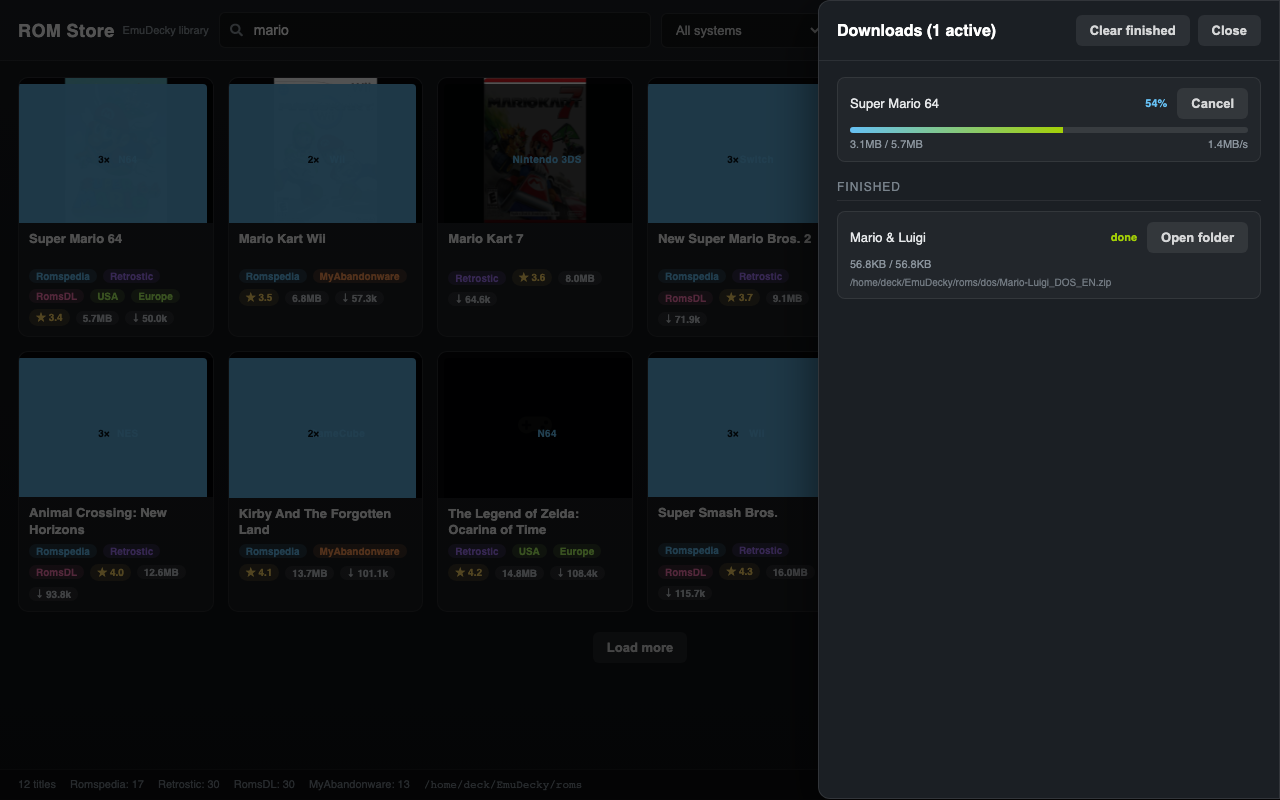
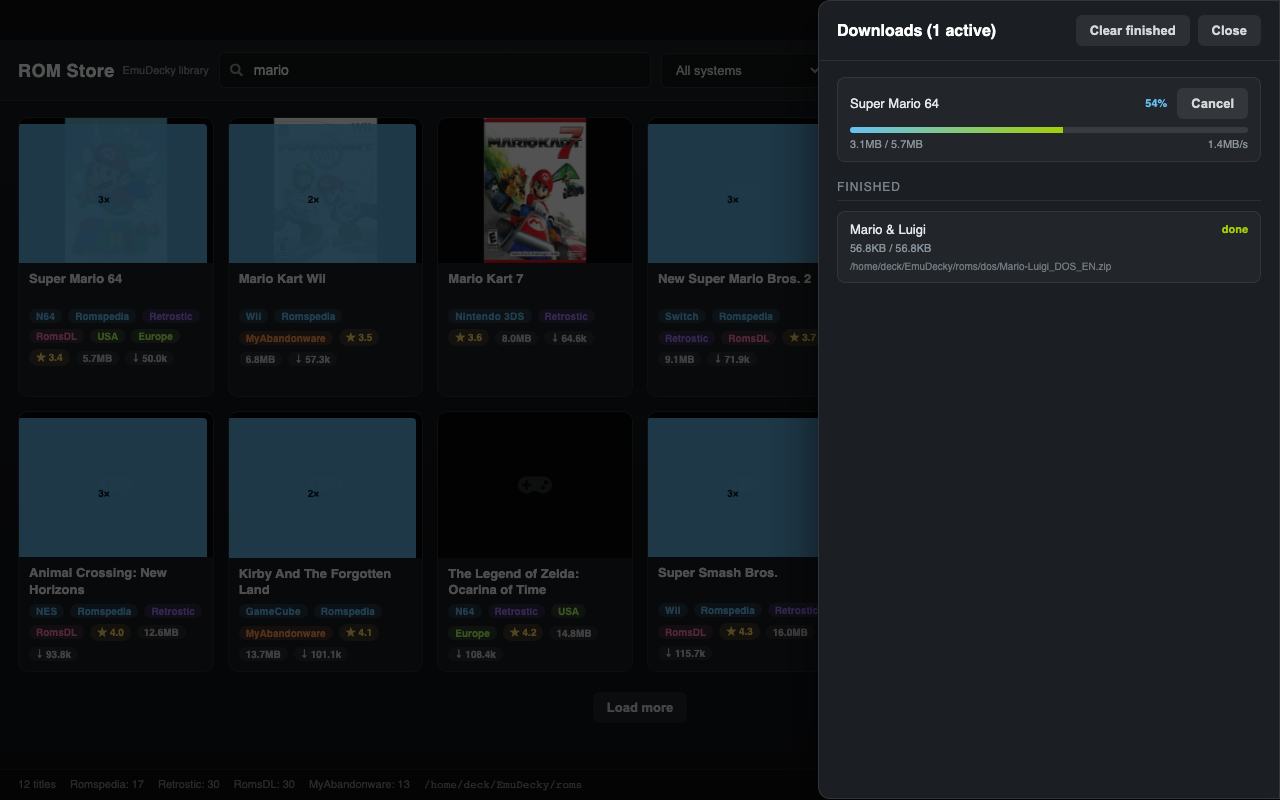
Fix Steam chrome offset, restore list scrolling, auto-retry link resolution, tidy card and download rows

diff --git a/src/styles.ts b/src/styles.ts
@@ -1,14 +1,13 @@
 /** Styles for the ROM Store, injected at runtime (Decky does not load CSS files). */
 export const CSS = `
 .rs-store {
-  /* Normal flow on purpose: the Steam route container has no intrinsic
-     height, so an absolutely positioned store collapses to nothing. */
-  position: relative;
-  --rs-chrome-top: 0px;
-  --rs-chrome-bottom: 0px;
-  padding-top: var(--rs-chrome-top);
-  padding-bottom: var(--rs-chrome-bottom);
-  min-height: calc(100vh - var(--rs-chrome-top) - var(--rs-chrome-bottom));
+  /* The Steam client draws a header bar over the top of the window, so the
+     store lives between the two chrome bars and scrolls on its own. */
+  position: fixed;
+  top: var(--rs-chrome-top, var(--basicui-header-height, 40px));
+  bottom: var(--rs-chrome-bottom, 0px);
+  left: 0;
+  right: 0;
   display: flex;
   flex-direction: column;
   background: linear-gradient(180deg, #16191d 0%, #0f1114 100%);
@@ -19,8 +18,7 @@ export const CSS = `
 }
 
 .rs-header {
-  position: sticky;
-  top: var(--rs-chrome-top, 0px);
+  flex: 0 0 auto;
   z-index: 5;
   display: flex;
   align-items: center;
@@ -88,7 +86,17 @@ export const CSS = `
   font-size: 11px; font-weight: 700; display: flex; align-items: center; justify-content: center;
 }
 
-.rs-main { flex: 1 1 auto; overflow: visible; padding: 16px 18px 28px; }
+.rs-main {
+  flex: 1 1 auto;
+  min-height: 0;
+  overflow-y: auto;
+  overscroll-behavior: contain;
+  padding: 16px 18px 28px;
+}
+.rs-main::-webkit-scrollbar { width: 10px; }
+.rs-main::-webkit-scrollbar-track { background: rgba(0, 0, 0, 0.25); }
+.rs-main::-webkit-scrollbar-thumb { background: rgba(255, 255, 255, 0.18); border-radius: 5px; }
+.rs-main::-webkit-scrollbar-thumb:hover { background: rgba(255, 255, 255, 0.3); }
 
 .rs-grid {
   display: grid;
@@ -128,10 +136,11 @@ export const CSS = `
   transform: translateZ(0); backface-visibility: hidden;
 }
 .rs-cover .rs-placeholder { font-size: 34px; color: rgba(255,255,255,0.14); display: flex; }
-.rs-cover .rs-system-tag {
-  position: absolute; left: 6px; top: 6px;
-  background: rgba(0,0,0,0.72); color: #66c0f4;
-  border-radius: 4px; padding: 2px 6px; font-size: 10px; font-weight: 700; letter-spacing: .3px;
+.rs-pill.system {
+  background: rgba(102, 192, 244, 0.16);
+  color: #66c0f4;
+  font-weight: 700;
+  letter-spacing: 0.3px;
 }
 .rs-cover .rs-dup {
   position: absolute; right: 6px; top: 6px;
@@ -139,7 +148,7 @@ export const CSS = `
   border-radius: 4px; padding: 2px 6px; font-size: 10px; font-weight: 700;
 }
 
-.rs-card-body { padding: 8px 10px 10px; display: flex; flex-direction: column; gap: 6px; }
+.rs-card-body { padding: 8px 10px 10px; display: flex; flex-direction: column; gap: 6px; min-width: 0; overflow: hidden; }
 .rs-title {
   font-size: 13px; font-weight: 600; color: #f2f3f3; line-height: 1.25;
   display: -webkit-box; -webkit-line-clamp: 2; -webkit-box-orient: vertical; overflow: hidden;
@@ -256,14 +265,21 @@ export const CSS = `
 
 .rs-dl-row {
   border: 1px solid rgba(255,255,255,0.08); border-radius: 8px; padding: 10px 12px; margin-bottom: 9px;
-  background: rgba(255,255,255,0.03);
+  background: rgba(255,255,255,0.03); max-width: 100%; overflow: hidden;
 }
-.rs-dl-top { display: flex; align-items: center; gap: 10px; }
-.rs-dl-name { flex: 1 1 auto; min-width: 0; font-size: 13px; color: #e6e8ea; white-space: nowrap; overflow: hidden; text-overflow: ellipsis; }
-.rs-dl-status { font-size: 11px; font-weight: 600; }
+.rs-dl-top { display: flex; align-items: center; gap: 10px; min-width: 0; }
+.rs-dl-name {
+  flex: 1 1 0; min-width: 0; font-size: 13px; color: #e6e8ea;
+  white-space: nowrap; overflow: hidden; text-overflow: ellipsis;
+}
+.rs-dl-status { font-size: 11px; font-weight: 600; flex: 0 0 auto; white-space: nowrap; }
 .rs-progress { height: 6px; border-radius: 3px; background: rgba(255,255,255,0.1); overflow: hidden; margin-top: 8px; }
 .rs-progress > div { height: 100%; background: linear-gradient(90deg, #66c0f4, #a4d007); transition: width 200ms linear; }
-.rs-dl-sub { display: flex; justify-content: space-between; font-size: 11px; color: #8b949d; margin-top: 5px; }
+.rs-dl-sub {
+  display: flex; justify-content: space-between; gap: 10px; font-size: 11px; color: #8b949d;
+  margin-top: 5px; min-width: 0;
+}
+.rs-dl-sub > span { min-width: 0; overflow: hidden; text-overflow: ellipsis; white-space: nowrap; }
 
 .rs-form-row { display: flex; align-items: center; gap: 12px; margin-bottom: 14px; }
 .rs-form-row label { flex: 0 0 190px; font-size: 13px; color: #c9ced3; }

diff --git a/src/components/useChromeInsets.ts b/src/components/useChromeInsets.ts
@@ -17,14 +17,21 @@ export function useChromeInsets(): RefObject<HTMLDivElement | null> {
       const rect = element.getBoundingClientRect();
       if (!rect.width || !rect.height) return;
 
+      // Steam exposes the height of its own header bar. If it is there we
+      // use it, otherwise we measure where our content becomes visible.
+      const steamHeader = getComputedStyle(document.documentElement)
+        .getPropertyValue("--basicui-header-height")
+        .trim();
+      const headerFromSteam = parseFloat(steamHeader);
+
       const x = Math.round(rect.left + Math.min(rect.width, 600) / 2);
       const limit = Math.min(window.innerHeight, Math.max(rect.bottom, rect.top + 1));
 
-      let top = 0;
+      let measuredTop = 0;
       for (let y = Math.max(0, Math.floor(rect.top)); y < limit; y += 2) {
         const hit = document.elementFromPoint(x, y);
         if (hit && element.contains(hit)) {
-          top = Math.max(0, y - rect.top);
+          measuredTop = Math.max(0, y - rect.top);
           break;
         }
       }
@@ -38,8 +45,10 @@ export function useChromeInsets(): RefObject<HTMLDivElement | null> {
         }
       }
 
-      element.style.setProperty("--rs-chrome-top", `${top}px`);
-      element.style.setProperty("--rs-chrome-bottom", `${bottom}px`);
+      const top = Number.isFinite(headerFromSteam) && headerFromSteam > 0 ? headerFromSteam : measuredTop;
+
+      if (top > 0) element.style.setProperty("--rs-chrome-top", `${top}px`);
+      if (bottom > 0) element.style.setProperty("--rs-chrome-bottom", `${bottom}px`);
     };
 
     // The Steam chrome animates in, so measure again shortly after mounting.

diff --git a/src/components/DownloadsDrawer.tsx b/src/components/DownloadsDrawer.tsx
@@ -1,5 +1,5 @@
 import { FC } from "react";
-import { cancelDownload, clearDownloads, DownloadJob, openFolder } from "../types";
+import { cancelDownload, clearDownloads, DownloadJob } from "../types";
 import { formatBytes, formatSpeed } from "./common";
 
 interface Props {
@@ -47,15 +47,6 @@ const DownloadsDrawer: FC<Props> = ({ jobs, onClose, onRefresh }) => {
               Cancel
             </button>
           ) : null}
-          {job.status === "done" && job.path ? (
-            <button
-              className="rs-btn ghost"
-              onClick={() => openFolder(job.destination)}
-              title={job.path}
-            >
-              Open folder
-            </button>
-          ) : null}
           {job.status === "error" ? <span className="rs-pill region">{job.error}</span> : null}
         </div>
         {(job.status === "downloading" || job.status === "extracting") && (
@@ -72,7 +63,7 @@ const DownloadsDrawer: FC<Props> = ({ jobs, onClose, onRefresh }) => {
         </div>
         {job.status === "done" && job.path ? (
           <div className="rs-dl-sub">
-            <span className="rs-path" style={{ fontSize: 10, opacity: 0.75 }}>
+            <span className="rs-path" style={{ fontSize: 10, opacity: 0.75 }} title={job.path}>
               {job.path}
             </span>
           </div>

diff --git a/src/components/SettingsModal.tsx b/src/components/SettingsModal.tsx
@@ -164,6 +164,22 @@ const SettingsModal: FC<Props> = ({ onClose, onSaved }) => {
             </div>
           ))}
 
+          <div className="rs-section-title">Steam overlay</div>
+          <div className="rs-form-row">
+            <label>Header offset</label>
+            <input
+              type="text"
+              value={String(settings.chrome_top_offset ?? 0)}
+              onChange={(event) => update({ chrome_top_offset: Number(event.target.value) || 0 })}
+            />
+          </div>
+          <div className="rs-form-row">
+            <div className="rs-hint">
+              Pixels to push the store below the Steam header bar. Leave at 0 to use the height Steam
+              reports automatically.
+            </div>
+          </div>
+
           <div className="rs-section-title">Downloads</div>
           <div className="rs-form-row">
             <label>Extract .zip archives</label>

diff --git a/src/components/RomCard.tsx b/src/components/RomCard.tsx
@@ -35,7 +35,6 @@ const RomCard: FC<Props> = memo(({ rom, onOpen }) => {
             <FaGamepad />
           </div>
         )}
-        <div className="rs-system-tag">{systemLabel(rom.system)}</div>
         {rom.variants > 1 && <div className="rs-dup">{rom.variants}×</div>}
       </div>
       <div className="rs-card-body">
@@ -43,6 +42,7 @@ const RomCard: FC<Props> = memo(({ rom, onOpen }) => {
           {rom.title}
         </div>
         <div className="rs-meta">
+          <span className="rs-pill system">{systemLabel(rom.system)}</span>
           {rom.sources.map((source) => (
             <span key={source} className={`rs-pill ${source}`}>
               {SOURCE_LABELS[source] ?? source}

diff --git a/src/components/Store.tsx b/src/components/Store.tsx
@@ -60,6 +60,12 @@ const Store: FC = () => {
   const requestId = useRef(0);
   const debounce = useRef<ReturnType<typeof setTimeout> | null>(null);
   const storeRef = useChromeInsets();
+  const manualOffset = settings?.chrome_top_offset ?? 0;
+
+  useEffect(() => {
+    if (!manualOffset || !storeRef.current) return;
+    storeRef.current.style.setProperty("--rs-chrome-top", `${manualOffset}px`);
+  }, [manualOffset, storeRef]);
 
   const refreshDownloads = useCallback(() => {
     getDownloads()

diff --git a/tools/preview/mock-api.ts b/tools/preview/mock-api.ts
@@ -172,6 +172,7 @@ const settings: Settings = {
   romsdl_base_url: "https://romsdl.com",
   myabandonware_base_url: "https://www.myabandonware.com",
   show_nsfw: false,
+  chrome_top_offset: 0,
 };
 
 const handlers: Record<string, (...args: any[]) => any> = {

diff --git a/src/types.ts b/src/types.ts
@@ -122,6 +122,7 @@ export interface Settings {
   romsdl_base_url: string;
   myabandonware_base_url: string;
   show_nsfw: boolean;
+  chrome_top_offset: number;
 }
 
 export interface StatusPayload {

diff --git a/backend/httpclient.py b/backend/httpclient.py
@@ -194,19 +194,31 @@ class HttpClient:
     # --------------------------------------------------------------- public API
     async def request(self, url: str, method: str = "GET", data: Optional[bytes] = None,
                       headers: Optional[Dict[str, str]] = None, allow_redirects: bool = True,
-                      max_bytes: int = 8 * 1024 * 1024) -> Response:
-        try:
-            resp = await asyncio.wait_for(
-                asyncio.to_thread(self._open, url, method, data, headers, allow_redirects),
-                timeout=max(self._timeout * 2, 45),
-            )
-        except asyncio.TimeoutError as exc:
-            raise HttpError(f"Request timed out: {url}", url=url) from exc
-        if resp.status >= 400:
-            raise HttpError(f"HTTP {resp.status} for {url}", resp.status, url)
-        if len(resp.body) > max_bytes:
-            resp.body = resp.body[:max_bytes]
-        return resp
+                      max_bytes: int = 8 * 1024 * 1024, retries: int = 2) -> Response:
+        """Fetch a URL, retrying transient failures."""
+        last_error: Optional[HttpError] = None
+        for attempt in range(retries + 1):
+            try:
+                resp = await asyncio.wait_for(
+                    asyncio.to_thread(self._open, url, method, data, headers, allow_redirects),
+                    timeout=max(self._timeout * 2, 45),
+                )
+            except asyncio.TimeoutError as exc:
+                last_error = HttpError(f"Request timed out: {url}", url=url)
+            except HttpError as exc:
+                last_error = exc
+            else:
+                if resp.status >= 500 and resp.status not in (501, 505):
+                    last_error = HttpError(f"HTTP {resp.status} for {url}", resp.status, url)
+                elif resp.status >= 400:
+                    raise HttpError(f"HTTP {resp.status} for {url}", resp.status, url)
+                else:
+                    if len(resp.body) > max_bytes:
+                        resp.body = resp.body[:max_bytes]
+                    return resp
+            if attempt < retries:
+                await asyncio.sleep(0.8 * (attempt + 1))
+        raise last_error or HttpError(f"Request failed: {url}", url=url)
 
     async def get_text(self, url: str, headers: Optional[Dict[str, str]] = None,
                        max_bytes: int = 8 * 1024 * 1024) -> str:

diff --git a/backend/service.py b/backend/service.py
@@ -234,13 +234,24 @@ class StoreService:
             source = sources.get(entry.source)
             if source is None:
                 return
-            try:
-                files = await source.resolve(entry)
-                entry.files = files
-                if files and not entry.size:
-                    entry.size = next((f.size for f in files if f.size), None)
-            except Exception as exc:
-                entry.extra["error"] = f"{type(exc).__name__}: {exc}"
+            # The sites occasionally drop a request, so give it a few tries
+            # before telling the user that the link could not be resolved.
+            last_error = ""
+            for attempt in range(3):
+                try:
+                    files = await source.resolve(entry)
+                    if files:
+                        entry.files = files
+                        if not entry.size:
+                            entry.size = next((f.size for f in files if f.size), None)
+                        entry.extra.pop("error", None)
+                        return
+                    last_error = "no download link found"
+                except Exception as exc:
+                    last_error = f"{type(exc).__name__}: {exc}"
+                if attempt < 2:
+                    await asyncio.sleep(0.7 * (attempt + 1))
+            entry.extra["error"] = last_error or "could not resolve the download link"
 
         await asyncio.gather(*(resolve(entry) for entry in rom.entries))
         return rom.to_dict()
@@ -268,10 +279,14 @@ class StoreService:
         headers: Dict[str, str] = {}
         url = rom_file.url
         if source is not None and hasattr(source, "resolve_download"):
-            try:
-                url = await source.resolve_download(rom_file)
-            except Exception:
-                url = rom_file.url
+            for attempt in range(3):
+                try:
+                    url = await source.resolve_download(rom_file)
+                    break
+                except Exception:
+                    url = rom_file.url
+                    if attempt < 2:
+                        await asyncio.sleep(0.7 * (attempt + 1))
         elif rom_file.url.rstrip("/").endswith("/download"):
             url = rom_file.url
 

diff --git a/backend/downloader.py b/backend/downloader.py
@@ -174,9 +174,23 @@ class DownloadManager:
                         last = now
                         last_bytes = received
 
-                await self._http.download(
-                    job.url, temp_path, headers=job.headers, on_progress=progress, cancel=cancel
-                )
+                last_error: Optional[str] = None
+                for attempt in range(3):
+                    try:
+                        await self._http.download(
+                            job.url, temp_path, headers=job.headers, on_progress=progress, cancel=cancel
+                        )
+                        last_error = None
+                        break
+                    except HttpError as exc:
+                        last_error = str(exc)
+                        self._remove(temp_path)
+                        if cancel.is_set():
+                            raise
+                        if attempt < 2:
+                            await asyncio.sleep(1.0 * (attempt + 1))
+                if last_error:
+                    raise HttpError(last_error)
 
                 if cancel.is_set():
                     self._remove(temp_path)

diff --git a/backend/settings.py b/backend/settings.py
@@ -22,6 +22,7 @@ DEFAULTS: Dict[str, Any] = {
     "romsdl_base_url": "https://romsdl.com",
     "myabandonware_base_url": "https://www.myabandonware.com",
     "show_nsfw": False,
+    "chrome_top_offset": 0,
 }
 
 
